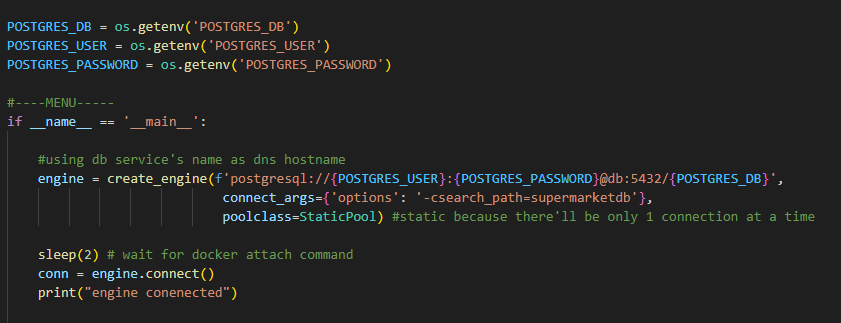
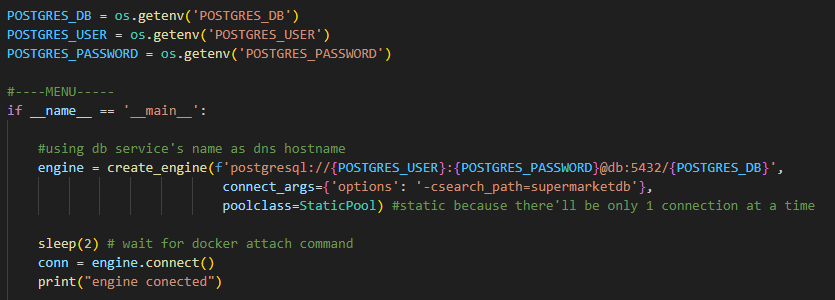
corrected typo in app_conn img and readme

diff --git a/app/supermarket_menu.py b/app/supermarket_menu.py
@@ -153,7 +153,7 @@ dni_empleado = 0
 if __name__ == '__main__':
     sleep(2) # wait for docker attach command
     conn = engine.connect()
-    print("engine conenected")
+    print("engine conected")
     
     # LOG IN empleado
     if dni_empleado != 0:

diff --git a/README.md b/README.md
@@ -19,6 +19,6 @@ Made with PGadmin4's ERD tool
 
 <img src="https://github.com/kukelia/supermarket-db-system/blob/master/img/app_connection.png" alt="drawing" width="900"/>
 
-### SQL Query examplpe:
+### SQL Query example:
 
 <img src="https://github.com/kukelia/supermarket-db-system/blob/master/img/query_example.png" alt="drawing" width="900"/>
